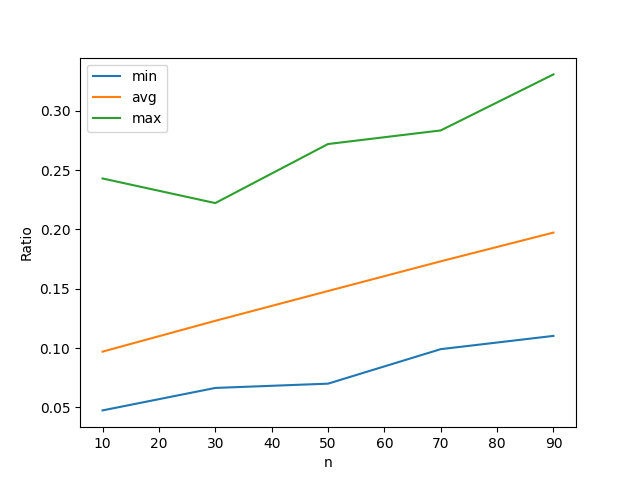
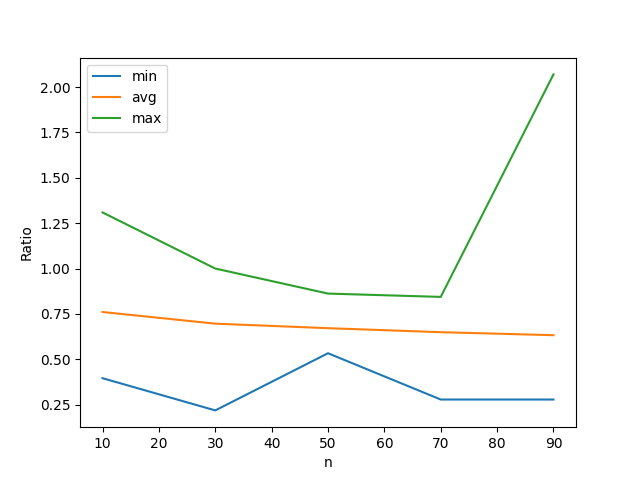
real fin

diff --git a/assignment2/20240454.py b/assignment2/20240454.py
@@ -127,8 +127,6 @@ plt.legend()
 plt.savefig("./ListVsArrayCon")
 plt.close()
 
-# 2
-
 # 2-1-a
 def PolyList(f):
     deg = len(f) - 1
@@ -146,7 +144,9 @@ def PolyEvalList(f, c):
     return ret
 
 def PolyEvalArray(f, c):
-    return np.polyval(f, c)
+    deg = len(f) - 1
+    exp = np.arange(deg, -1, -1)
+    return np.dot(f, np.power(c, exp))
 
 fx = [1] + [0]*48 + [-1, 0]
 ratios = np.zeros(1000)
@@ -211,7 +211,12 @@ def PolyProdList(f, g):
     return ret
 
 def PolyProdArray(f, g):
-    return np.convolve(f, g)
+    f = np.array(f)
+    g = np.array(g)
+    ret = np.zeros(len(f) + len(g) - 1)
+    for i, fc in enumerate(f):
+        ret[i:i + len(g)] += fc * g
+    return ret
 
 fx = [1, -1, 0, -1, 1]
 gx = [3, 0, 0, -4, 2, 0]
@@ -294,18 +299,19 @@ plt.close()
 
 # 2-2-a
 def SharingList(A):
+    A = np.array(A)
     return [list(map(int, np.where(A[:, i])[0])) for i in range(A.shape[1])]
 
 A = np.random.binomial(1, 0.2, size=(20, 10))
 print(f"SharingList(A) = {SharingList(A)}")
 
 # 2-2-b
-def FindPopularList(A_list):
+def FindPopularList(A):
+    Ash = SharingList(A)
     freq = {}
-    for sublist in A_list:
-        for item in sublist:
-            freq[item] = freq.get(item, 0) + 1
-
+    for group in Ash:
+        for elem in group:
+            freq[elem] = freq.get(elem, 0) + 1
     return max(freq, key=freq.get)
 
 
@@ -314,15 +320,14 @@ def FindPopularArray(A):
 
 ratios = np.zeros(1000)
 for i in range(1000):
-    A_temp = np.random.binomial(1, 0.2, size=(20, 10))
-    A_list_temp = SharingList(A_temp)
+    A = np.random.binomial(1, 0.2, size=(20, 10))
     
     start = time.perf_counter()
-    FindPopularList(A_list_temp)
+    FindPopularList(A)
     t1 = time.perf_counter() - start
     
     start = time.perf_counter()
-    FindPopularArray(A_temp)
+    FindPopularArray(A)
     t2 = time.perf_counter() - start
     
     ratios[i] = t1 / t2
@@ -333,40 +338,38 @@ plt.savefig("./HistSharing")
 plt.close()
 
 # 3-1-a
-def generateOrderedSet(n):
-    return np.sort(np.random.randint(0, 101, n))
 
 def Member(A, e):
     if len(A) == 0:
         return False
+    
     p = 0
-    while True:
+    while p < len(A):
         a = A[p]
         if a < e:
-            if p == len(A) - 1:
-                return False
-            else:
-                p += 1
+            p += 1
         elif a > e:
             return False
         else:
             return True
+        
+    return False
 
 def Subset(A, B):
     if len(A) == 0:
         return True
     p = 0
-    while True:
-        if Member(B, A[p]):
-            if p == len(A) - 1:
-                return True
-            else:
-                p += 1
-        else:
+    
+    while p < len(A):
+        if not Member(B, A[p]):
             return False
+        p += 1
+        
+    return True
 
 def SubsetFast(A, B):
-    i = j = 0
+    i = 0
+    j = 0
     while i < len(A) and j < len(B):
         if A[i] < B[j]:
             return False
@@ -375,6 +378,7 @@ def SubsetFast(A, B):
         else:
             i += 1
             j += 1
+            
     return i == len(A)
 
 sizes = [10, 30, 50, 70, 90]
@@ -382,12 +386,12 @@ ratios = []
 for n in sizes:
     temp = []
     for _ in range(1000):
-        B_set = generateOrderedSet(n)
+        Bset = np.sort(np.random.randint(0, 101, n))
         start = time.perf_counter()
-        Subset([0, 9], B_set)
+        Subset([0, 9], Bset)
         t1 = time.perf_counter() - start
         start = time.perf_counter()
-        SubsetFast([0, 9], B_set)
+        SubsetFast([0, 9], Bset)
         t2 = time.perf_counter() - start
         temp.append(t1 / t2)
     temp = np.array(temp)
@@ -403,7 +407,7 @@ plt.savefig("./Subset")
 plt.close()
 
 # 3-1-b
-A_union = [0, 1, 4, 5, 8, 9, 10]
+aUnion = [0, 1, 4, 5, 8, 9, 10]
 
 def UnionNon(A, B):
     i, j = 0, 0
@@ -428,30 +432,38 @@ def UnionNon(A, B):
     return ret
 
 def Union(A, B):
-    for b in B:
-        if b not in A:
-            A.append(b)
-    return sorted(A)
+    if len(A) == 0 and len(B) == 0:
+        return []
+    if len(A) == 0:
+        return B.copy()
+    if len(B) == 0:
+        return A.copy()
+    if A[0] < B[0]:
+        return [A[0]] + Union(A[1:], B)
+    elif A[0] > B[0]:
+        return [B[0]] + Union(A, B[1:])
+    else:
+        return [A[0]] + Union(A[1:], B[1:])
 
-ratios = []
-for n in sizes:
-    temp = []
+ratioList = []
+for nVal in sizes:
+    tempArray = []
     for _ in range(1000):
-        B_union = generateOrderedSet(n)
-        start = time.perf_counter()
-        UnionNon(A_union, B_union)
-        t1 = time.perf_counter() - start
-        A_copy = A_union.copy()
-        start = time.perf_counter()
-        Union(A_copy, B_union)
-        t2 = time.perf_counter() - start
-        temp.append(t1 / t2)
-    temp = np.array(temp)
-    ratios.append([temp.min(), temp.mean(), temp.max()])
-ratios = np.array(ratios)
-plt.plot(sizes, ratios[:,0], label="min")
-plt.plot(sizes, ratios[:,1], label="avg")
-plt.plot(sizes, ratios[:,2], label="max")
+        bUnion = np.sort(np.random.randint(0, 101, nVal))
+        startTime = time.perf_counter()
+        UnionNon(aUnion, bUnion)
+        t1 = time.perf_counter() - startTime
+        aCopy = aUnion.copy()
+        startTime = time.perf_counter()
+        Union(aCopy, bUnion)
+        t2 = time.perf_counter() - startTime
+        tempArray.append(t1 / t2)
+    tempArray = np.array(tempArray)
+    ratioList.append([tempArray.min(), tempArray.mean(), tempArray.max()])
+ratioList = np.array(ratioList)
+plt.plot(sizes, ratioList[:, 0], label="min")
+plt.plot(sizes, ratioList[:, 1], label="avg")
+plt.plot(sizes, ratioList[:, 2], label="max")
 plt.xlabel("n")
 plt.ylabel("Ratio")
 plt.legend()
@@ -474,27 +486,34 @@ def IntersectNon(A, B):
     return ret
 
 def Intersect(A, B):
-    return [a for a in A if a in B]
+    if len(A) == 0 or len(B) == 0:
+        return []
+    if A[0] < B[0]:
+        return Intersect(A[1:], B)
+    elif A[0] > B[0]:
+        return Intersect(A, B[1:])
+    else:
+        return [A[0]] + Intersect(A[1:], B[1:])
 
-ratios = []
-for n in sizes:
-    temp = []
+ratioList = []
+for nVal in sizes:
+    tempArray = []
     for _ in range(1000):
-        B_intersect = generateOrderedSet(n)
-        start = time.perf_counter()
-        IntersectNon(A_union, B_intersect)
-        t1 = time.perf_counter() - start
-        A_copy = A_union.copy()
-        start = time.perf_counter()
-        Intersect(A_copy, B_intersect)
-        t2 = time.perf_counter() - start
-        temp.append(t1 / t2)
-    temp = np.array(temp)
-    ratios.append([temp.min(), temp.mean(), temp.max()])
-ratios = np.array(ratios)
-plt.plot(sizes, ratios[:,0], label="min")
-plt.plot(sizes, ratios[:,1], label="avg")
-plt.plot(sizes, ratios[:,2], label="max")
+        bIntersect = np.sort(np.random.randint(0, 101, nVal))
+        startTime = time.perf_counter()
+        IntersectNon(aUnion, bIntersect)
+        t1 = time.perf_counter() - startTime
+        aCopy = aUnion.copy()
+        startTime = time.perf_counter()
+        Intersect(aCopy, bIntersect)
+        t2 = time.perf_counter() - startTime
+        tempArray.append(t1 / t2)
+    tempArray = np.array(tempArray)
+    ratioList.append([tempArray.min(), tempArray.mean(), tempArray.max()])
+ratioList = np.array(ratioList)
+plt.plot(sizes, ratioList[:, 0], label="min")
+plt.plot(sizes, ratioList[:, 1], label="avg")
+plt.plot(sizes, ratioList[:, 2], label="max")
 plt.xlabel("n")
 plt.ylabel("Ratio")
 plt.legend()
